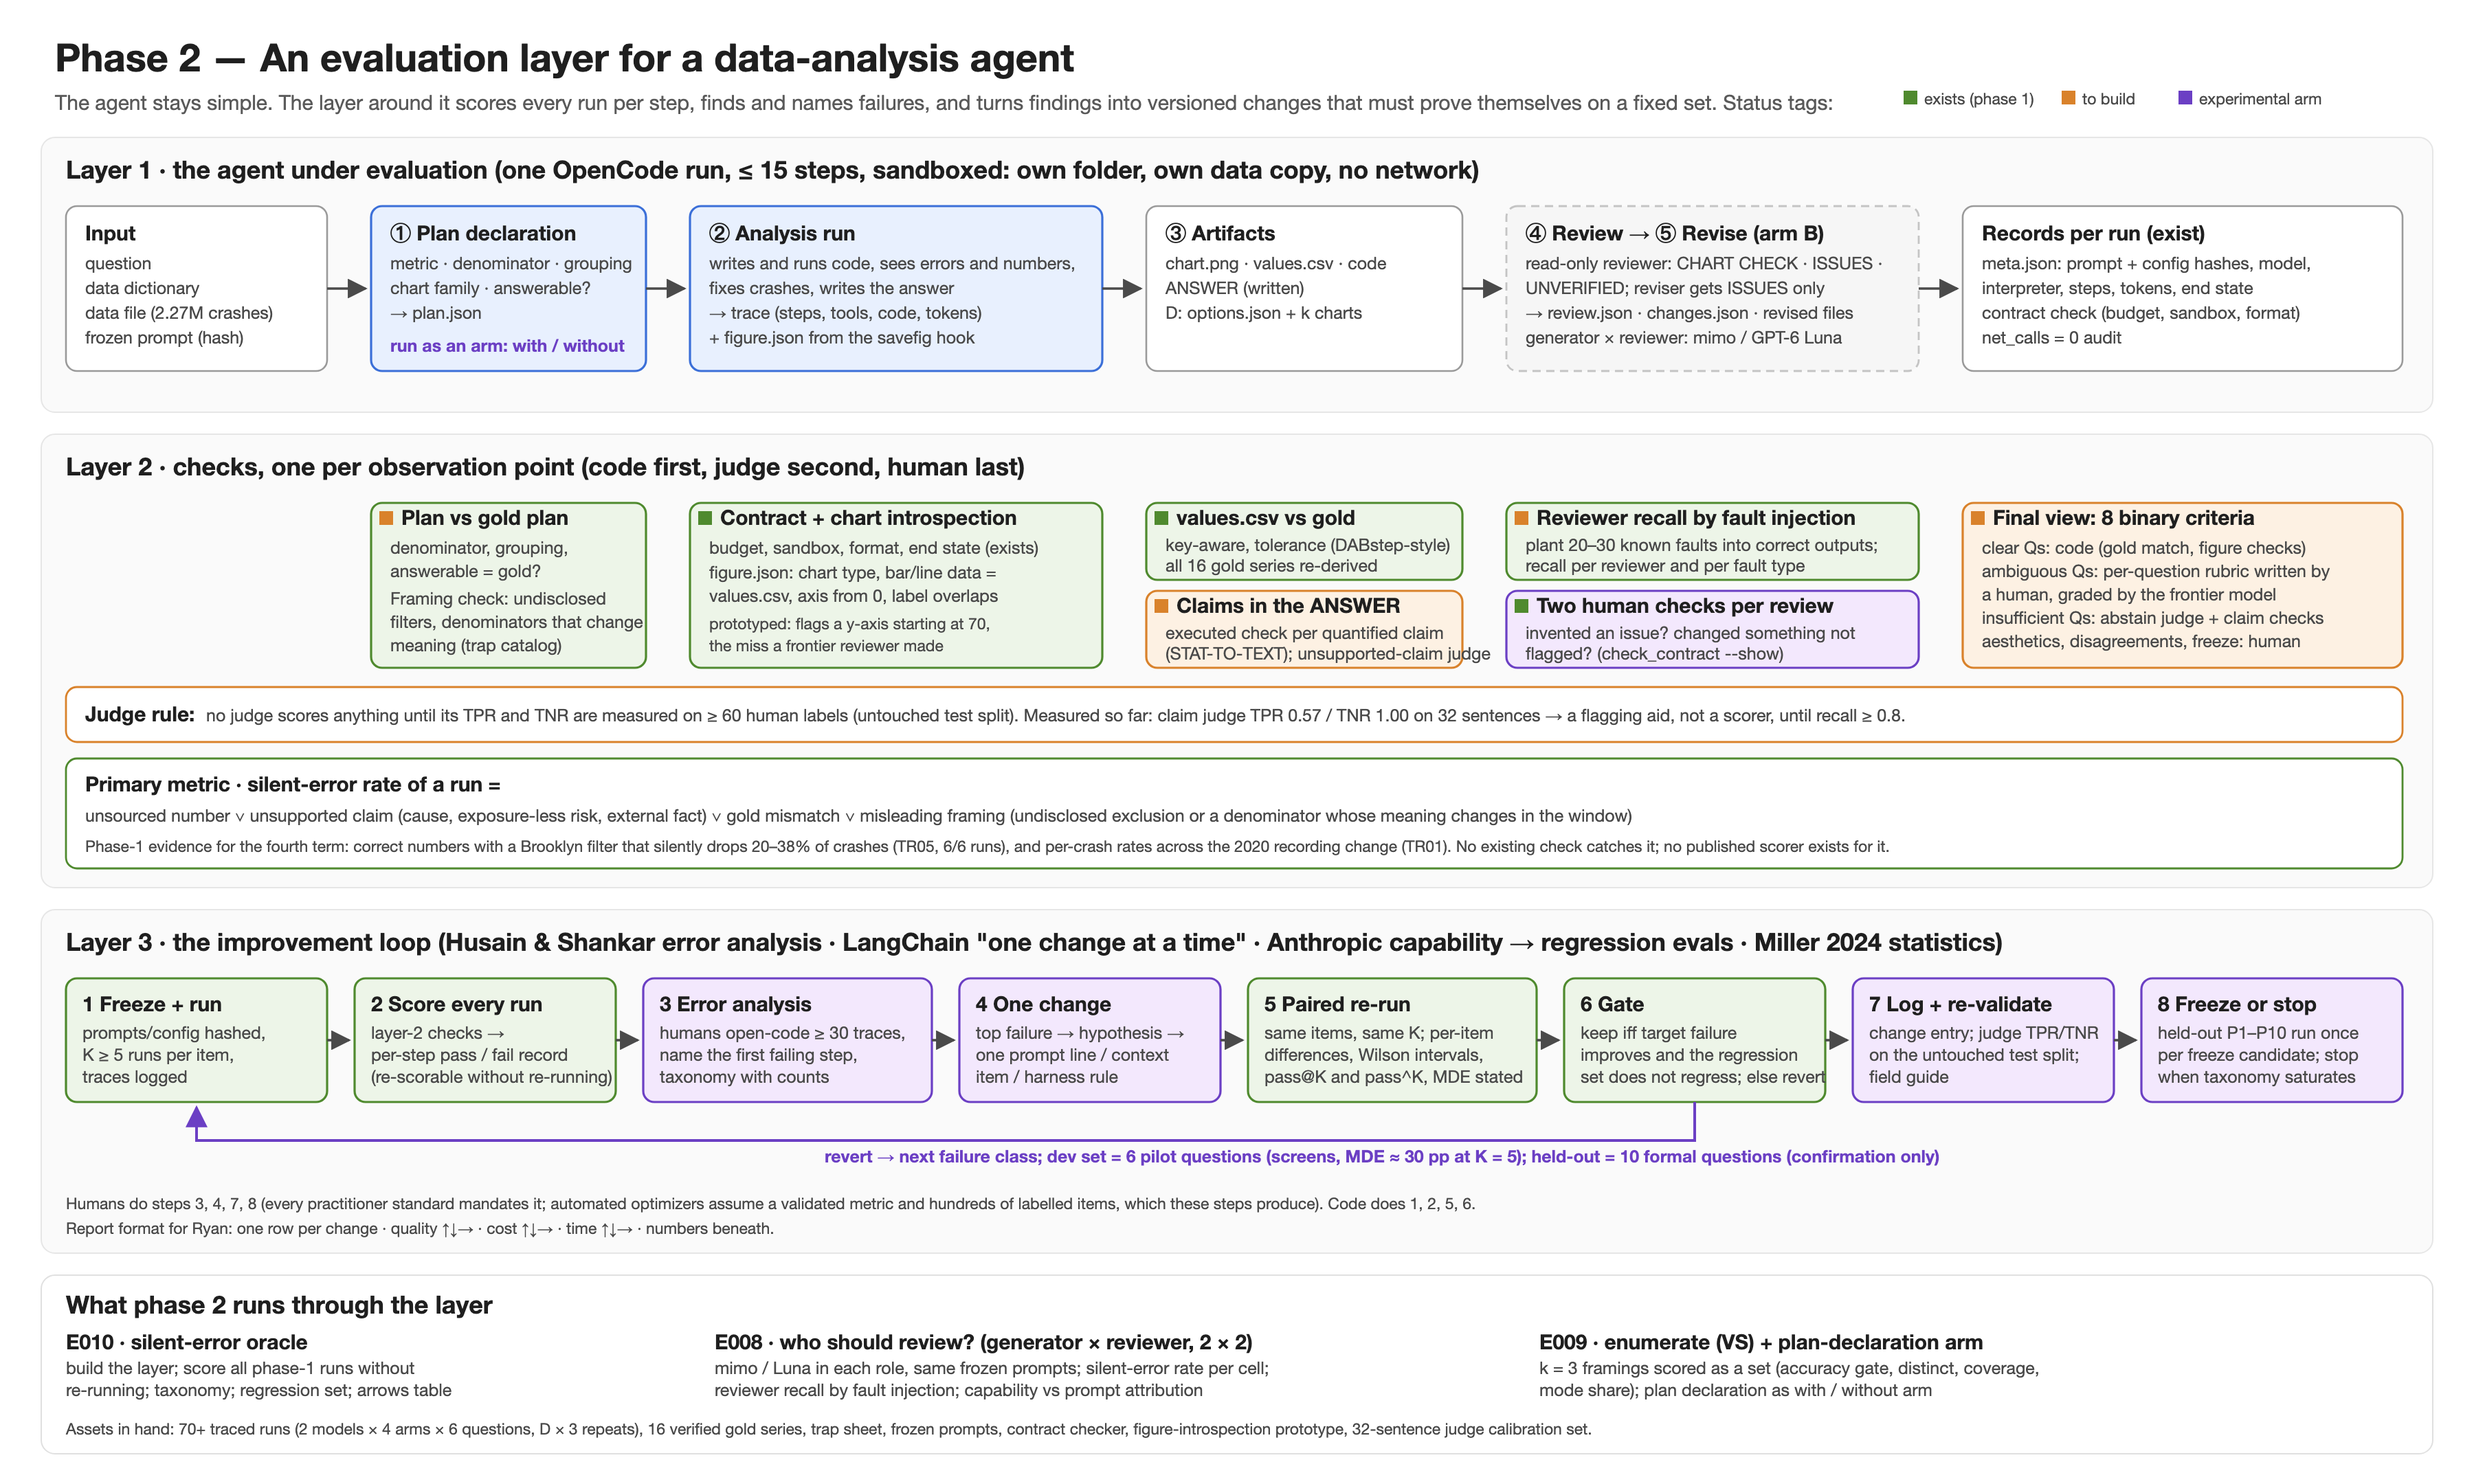
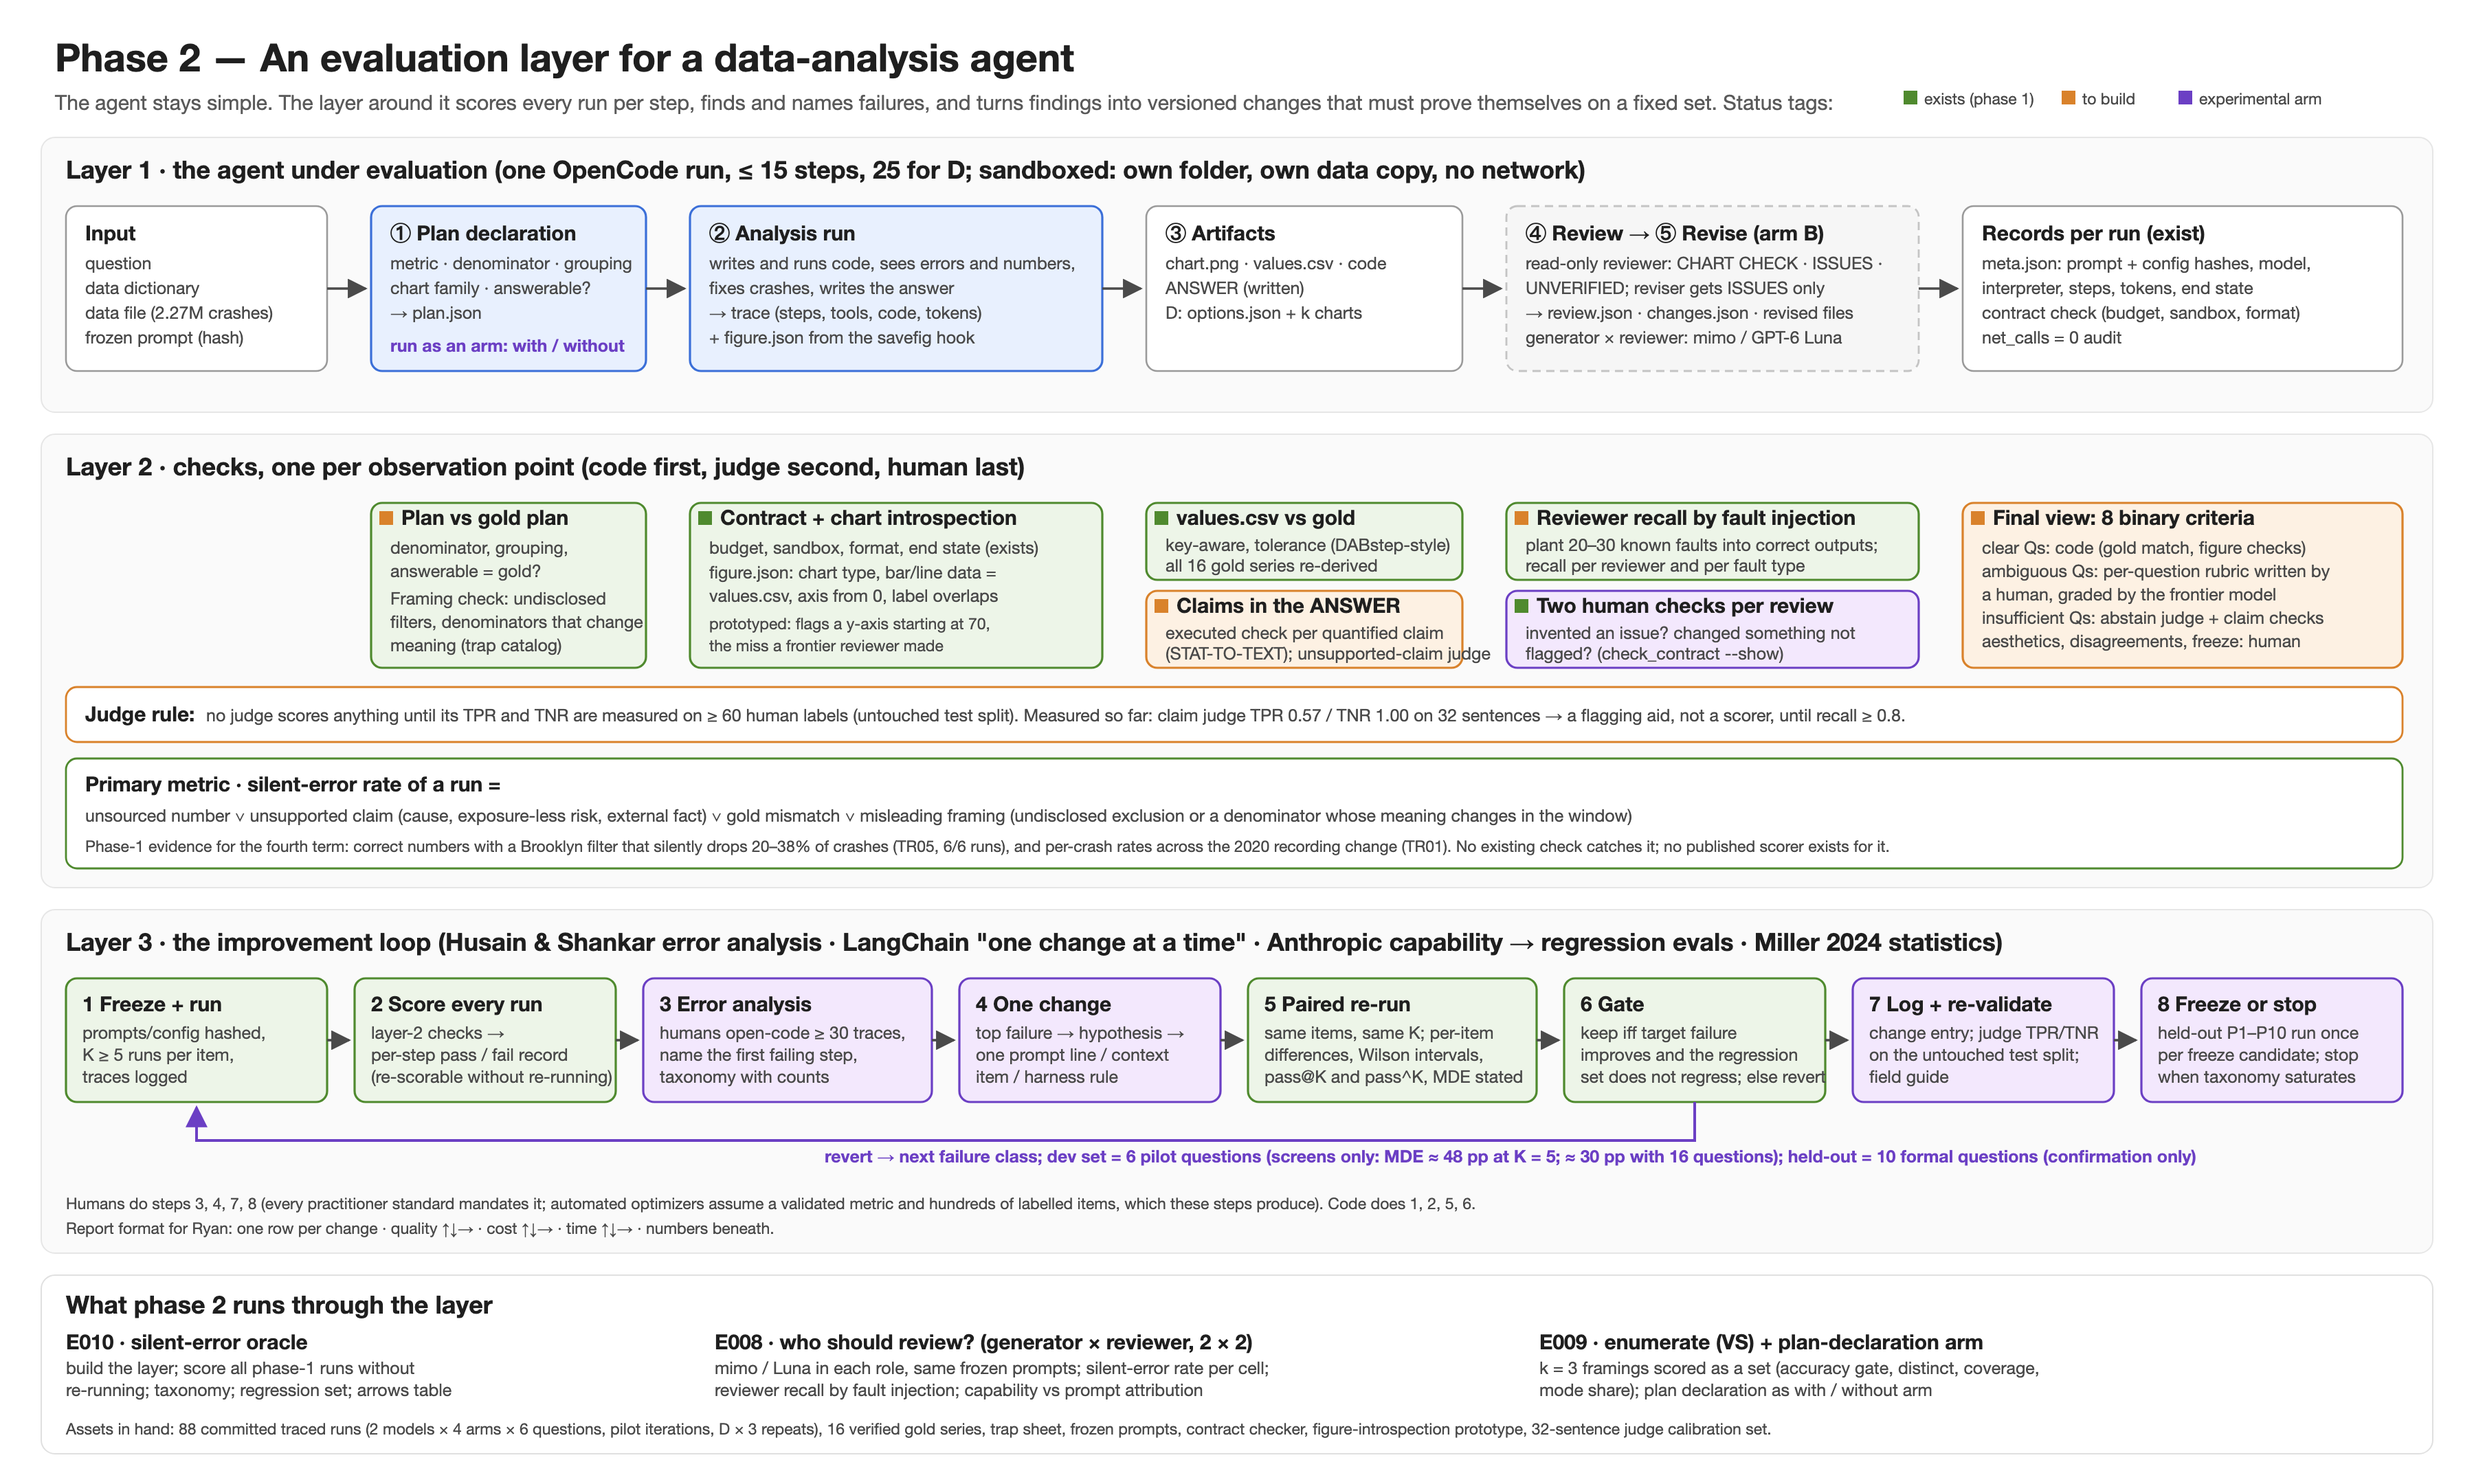
Phase-2 figure and brief: corrected run count (88), step cap note (25 for D), MDE for 6 vs 16 questions; brief trimmed to three questions

diff --git a/docs/mentor-brief-phase2-2026-10-27.md b/docs/mentor-brief-phase2-2026-10-27.md
@@ -19,15 +19,10 @@ The agent stays as it is. Around it we build a layer that (a) checks every obser
 
 | Exists | To build (order) |
 |---|---|
-| contract checks, end states, hashes, sandbox, 70+ traced runs, 16 gold series, trap sheet, figure-introspection prototype, 32-sentence judge calibration set | 1 executed claim checks (STAT-TO-TEXT pattern) · 2 framing assertions on plan + code · 3 figure checks wired into the harness · 4 fault-injection set for reviewers · 5 per-question rubrics (ambiguous Qs) · 6 paired-stats + gate script · 7 taxonomy from ≥ 30 hand-coded traces |
+| contract checks, end states, hashes, sandbox, 88 committed traced runs, 16 gold series, trap sheet, figure-introspection prototype, 32-sentence judge calibration set | 1 executed claim checks (STAT-TO-TEXT pattern) · 2 framing assertions on plan + code · 3 figure checks wired into the harness · 4 fault-injection set for reviewers · 5 per-question rubrics (ambiguous Qs) · 6 paired-stats + gate script · 7 taxonomy from ≥ 30 hand-coded traces |
 
-## 4. Where we want your judgement
+## 4. Three questions for you
 
-1. Scoring boundary by question type: clear = code; ambiguous = human-written rubric graded by the frontier model; insufficient = abstain judge + executed claim checks; aesthetics and disagreements human. Reasonable for a 3-person team?
-2. The judge rule (no scoring until TPR/TNR on ≥ 60 human labels). Our first claim judge measured TPR 0.57 / TNR 1.00. Is "flagging aid until recall ≥ 0.8" the right bar?
-3. Plan declaration changes the agent's behaviour; we treat it as an arm, not a harness feature. Agree?
-4. With 6 dev questions the minimum detectable effect is ≈ 30 points at 5 repeats. We propose: dev = screen, held-out 10 = confirmation once per freeze candidate, report pass@5 / pass^5 and the MDE instead of p-values. Would you report it differently?
-5. Process reference: Husain & Shankar error analysis + LangChain "one change at a time" + Anthropic capability → regression evals. Is this how 99P would run it?
-6. Reviewer leniency: fault injection (20–30 planted faults) to measure recall per reviewer. Worth the effort, or is the 2×2 enough?
-7. A teammate found VisJudge-7B (open weights, Apache-2.0) for readability/aesthetics; we would calibrate it on ~40 charts before use. Yes or skip?
-8. Deliverables you want to see at the end: field guide, Medium post in the 99P style, the harness as a reusable repo?
+1. **Scoring boundary by question type.** Clear questions by code (gold match, chart introspection); ambiguous questions by a per-question rubric written by a human and graded by the frontier model; insufficient-evidence questions by an abstain judge plus executed claim checks; aesthetics, disagreements and the freeze decision by humans. Reasonable for a three-person team? (Note on power: with 6 dev questions and 5 repeats the minimum detectable effect is ≈ 48 points, ≈ 30 with 16 questions, so dev comparisons are screens and the 10 held-out questions confirm.)
+2. **Reviewer leniency.** The frontier reviewer flagged issues on 2 of 6 items, the small model's reviewer on 5 of 5. With six items we cannot separate precision from leniency. We would plant 20–30 known faults into correct outputs and measure recall per reviewer and per fault type. Worth it, or is the generator × reviewer 2×2 enough?
+3. **VisJudge-7B.** A teammate found an open-weight (Apache-2.0) chart judge for readability and aesthetics, the slot where frontier judges correlate only 0.43 with experts. We would calibrate it on ~40 of our charts (two human labels, three runs) before using it as a ranker, never as a target. Yes or skip?
